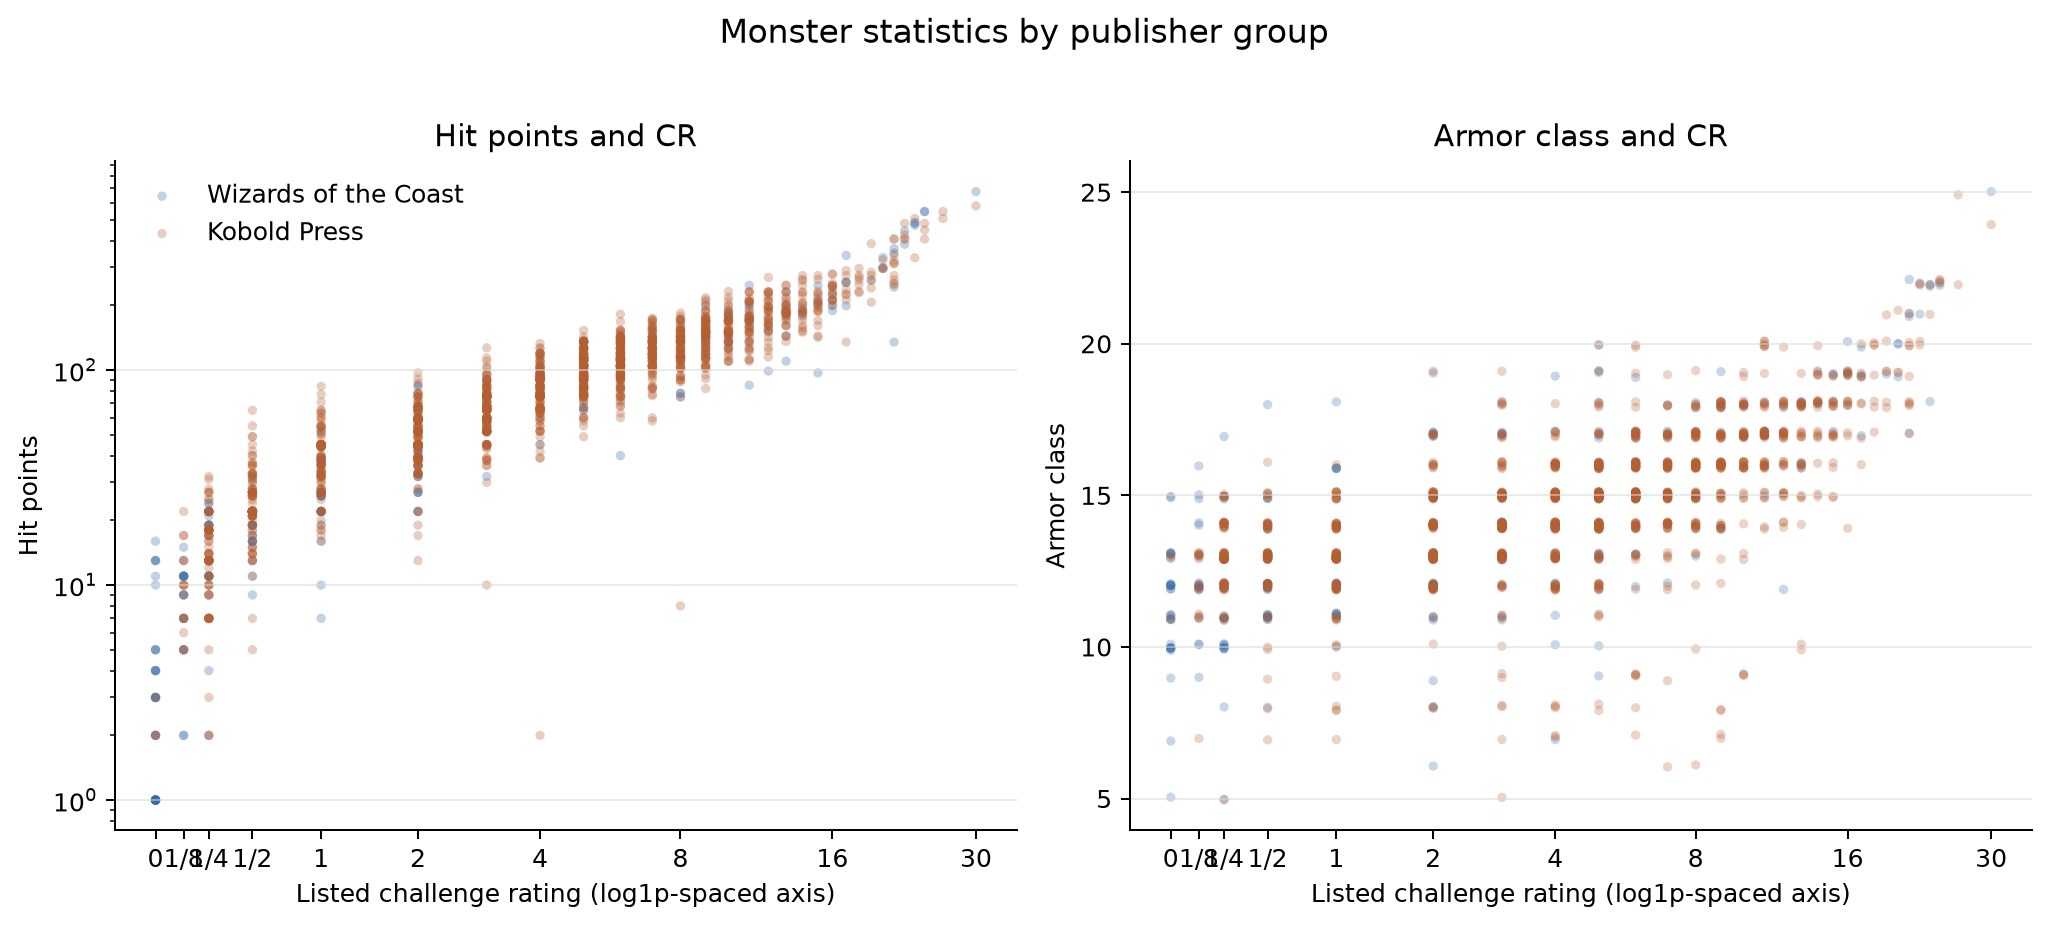
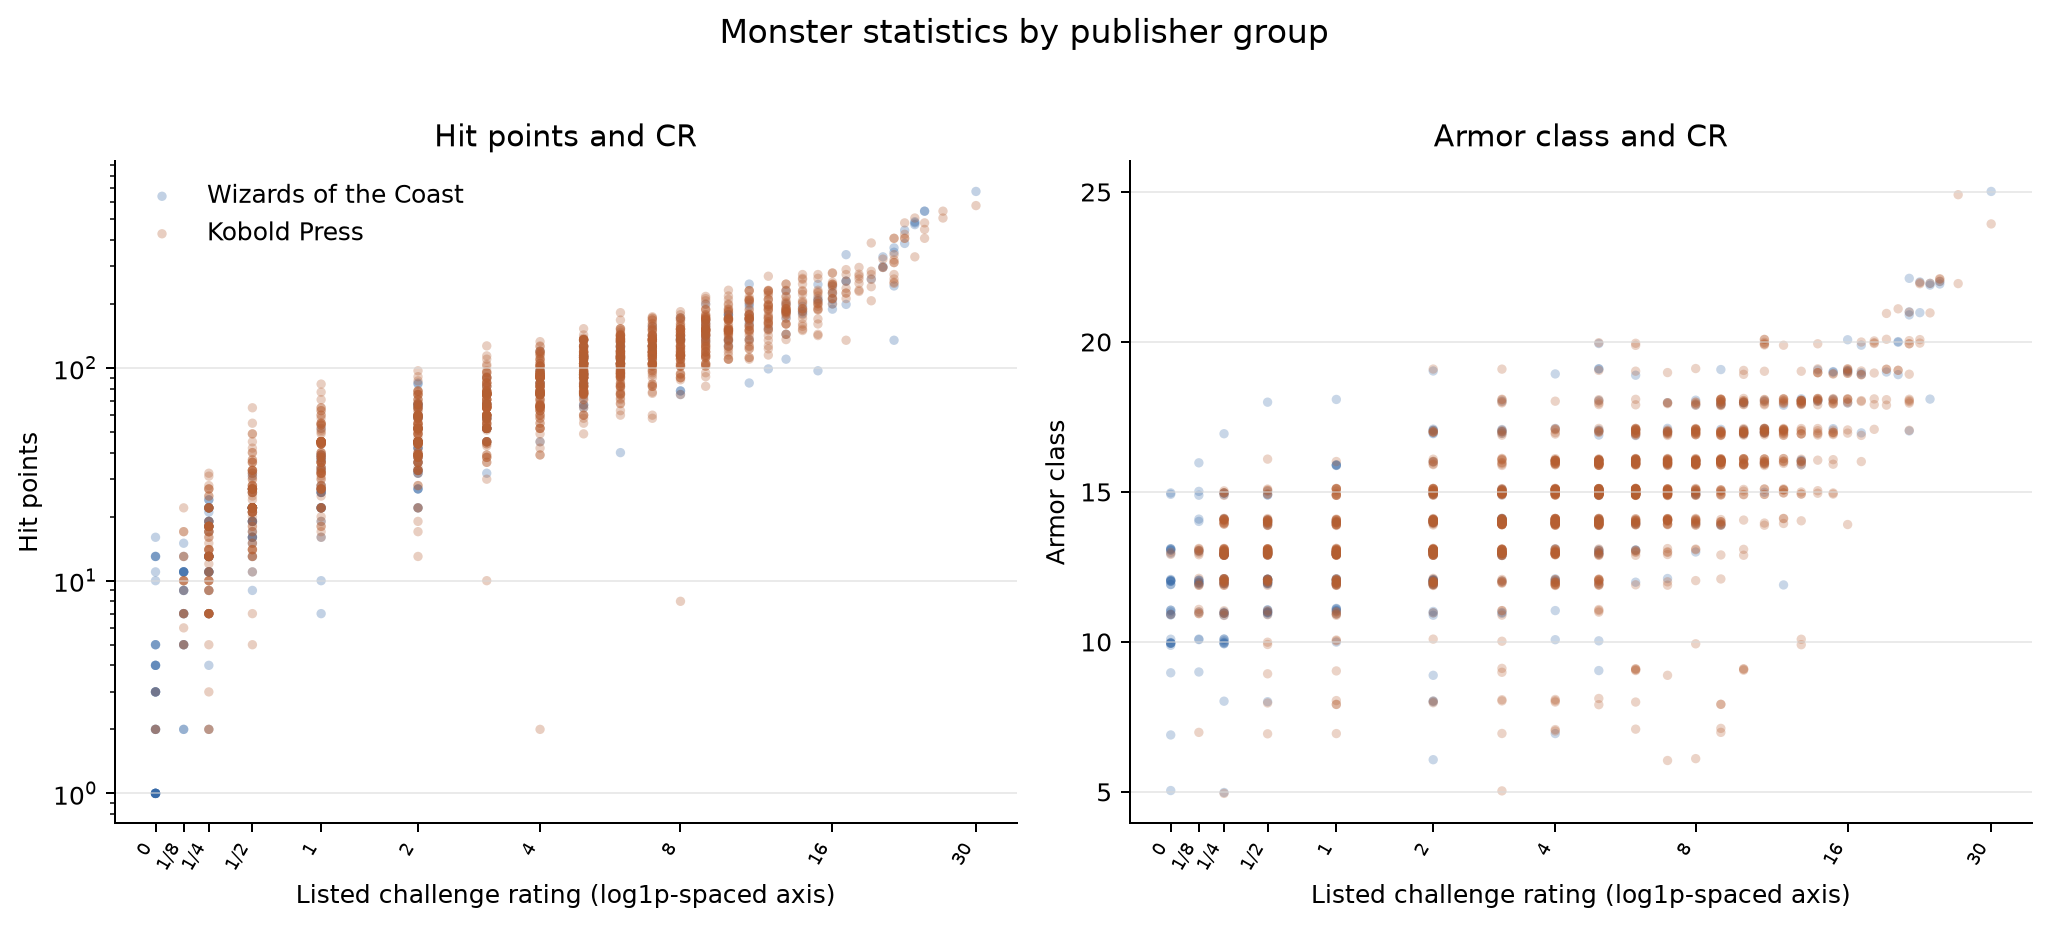
Improve challenge rating axis labels

diff --git a/scripts/analyze_monsters.py b/scripts/analyze_monsters.py
@@ -169,6 +169,11 @@ def create_figures(frame: pd.DataFrame, figures_dir: Path) -> None:
     cr_ticks = np.array([0, 0.125, 0.25, 0.5, 1, 2, 4, 8, 16, 30])
     for ax in axes:
         ax.set_xticks(np.log1p(cr_ticks), labels=["0", "1/8", "1/4", "1/2", "1", "2", "4", "8", "16", "30"])
+        # The fractional CR values bunch together near zero on a log1p scale.
+        # Angled, smaller labels keep them readable without dropping any ticks.
+        ax.tick_params(axis="x", labelrotation=60, labelsize=7)
+        for tick_label in ax.get_xticklabels():
+            tick_label.set_horizontalalignment("right")
         ax.set_xlabel("Listed challenge rating (log1p-spaced axis)")
         ax.grid(axis="y", color="#d9d9d9", linewidth=0.6, alpha=0.7)
     axes[0].set_title("Hit points and CR")
